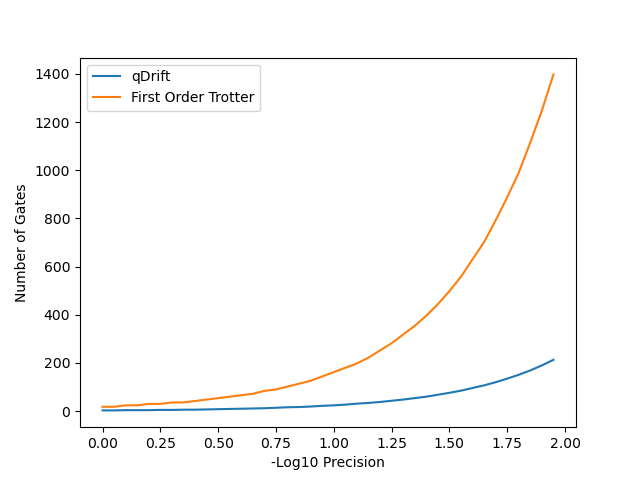
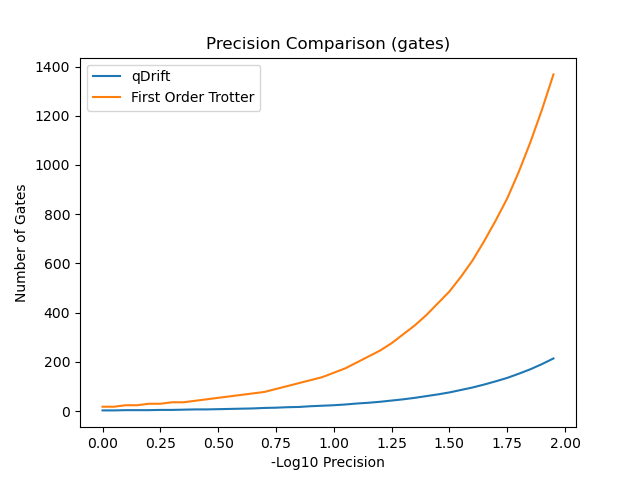
Fixed array

diff --git a/host.py b/host.py
@@ -72,7 +72,11 @@ H2Coeff = [
 
 # Coefficients for the Identity Trandformation portion of the Hamiltonian Decomposition
 H2IdentityCoeff = [
-            2.8489, 2.1868, 1.7252, 1.3827, 1.1182, 0.9083, 0.7381, 0.5979, 0.4808, 0.3819, 0.2976, 0.2252, 0.1626, 0.1083, 0.0609, 0.0193, -0.0172, -0.0493, -0.0778, -0.1029, -0.1253, -0.1452, -0.1629, -0.1786, -0.1927, -0.2053, -0.2165, -0.2265, -0.2355, -0.2436, -0.2508, -0.2573, -0.2632, -0.2684, -0.2731, -0.2774, -0.2812, -0.2847, -0.2879, -0.2908, -0.2934, -0.2958, -0.298, -0.3, -0.3018, -0.3035, -0.3051, -0.3066, -0.3079, -0.3092, -0.3104, -0.3115, -0.3125, -0.3135
+            2.8489, 2.1868, 1.7252, 1.3827, 1.1182, 0.9083, 0.7381, 0.5979, 0.4808, 0.3819, 
+            0.2976, 0.2252, 0.1626, 0.1083, 0.0609, 0.0193, -0.0172, -0.0493, -0.0778, -0.1029, -0.1253, 
+            -0.1452, -0.1629, -0.1786, -0.1927, -0.2053, -0.2165, -0.2265, -0.2355, -0.2436, -0.2508, 
+            -0.2573, -0.2632, -0.2684, -0.2731, -0.2774, -0.2812, -0.2847, -0.2879, -0.2908, -0.2934, 
+            -0.2958, -0.298, -0.3, -0.3018, -0.3035, -0.3051, -0.3066, -0.3079, -0.3092, -0.3104, -0.3115, -0.3125, -0.3135
         ]
 
 # 2-Local gates that make up the complete hamiltonian (0 = Identity, 1 = Pauli X, 2 = Pauli Y, 3 = Pauli Z)
@@ -167,7 +171,7 @@ elif int(arg_list[0]) == 0:
     plt.plot(log_e_dom, rand_times, label='qDrift')
     plt.plot(log_e_dom, trot_times, label='First Order Trotter')
     plt.xlabel("-Log10 Precision")
-    plt.ylabel("Runtime")
+    plt.ylabel("Number of Gates")
     plt.title("Precision Comparison (time)")
     plt.legend()
     plt.savefig("./Plots/e_precision_time_comp.png")
@@ -218,7 +222,7 @@ elif int(arg_list[0]) == 1:
         rand_times.append(rand_end-rand_start)
 
 
-    # Plotting result of run time for each protocal against the number of terms used
+    # Plotting result of run time for each protocol against the number of terms used
     # in that run
     plt.plot(num_terms_dom, rand_times, label='qDrift')
     plt.plot(num_terms_dom, trot_times, label='First Order Trotter')
@@ -229,7 +233,7 @@ elif int(arg_list[0]) == 1:
     plt.savefig("./Plots/num_terms_time_comp.png")
     plt.show()
 
-    # Plotting result of number of gates each protocal generated against the number of terms used
+    # Plotting result of number of gates each protocol generated against the number of terms used
     # in that run
     plt.plot(num_terms_dom, qdrift_gates, label='qDrift')
     plt.plot(num_terms_dom, trot_gates, label='First Order Trotter')
